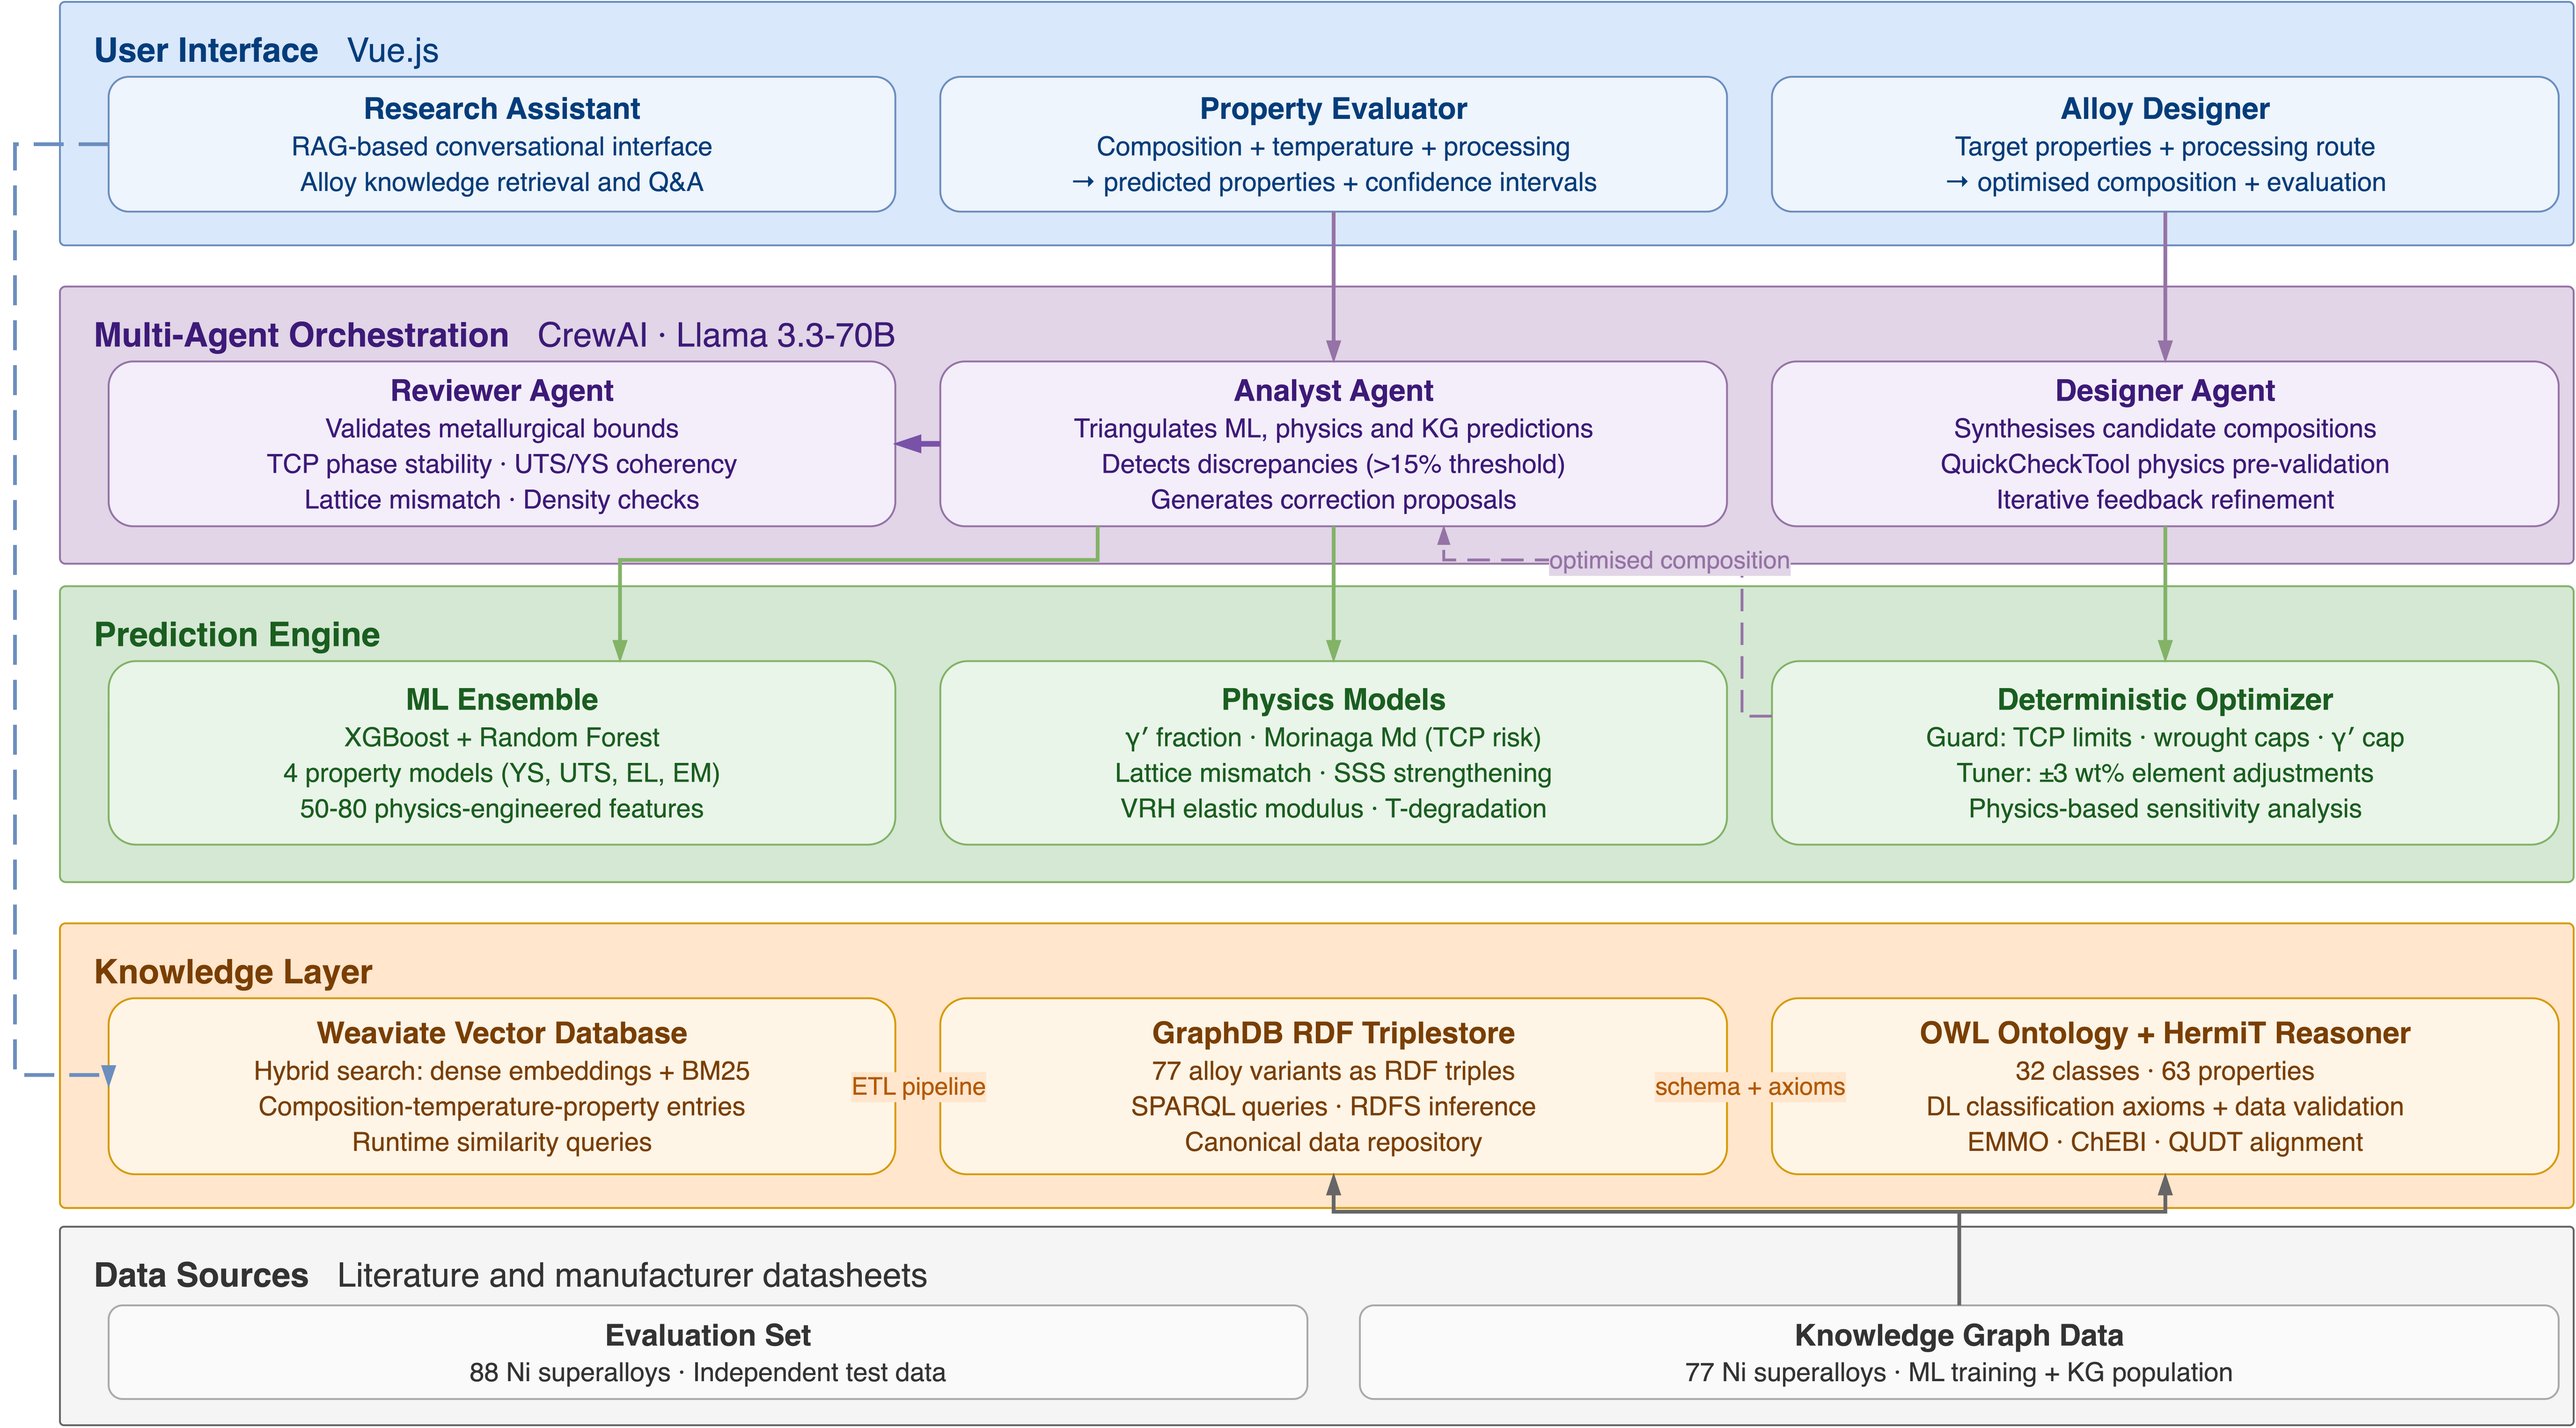
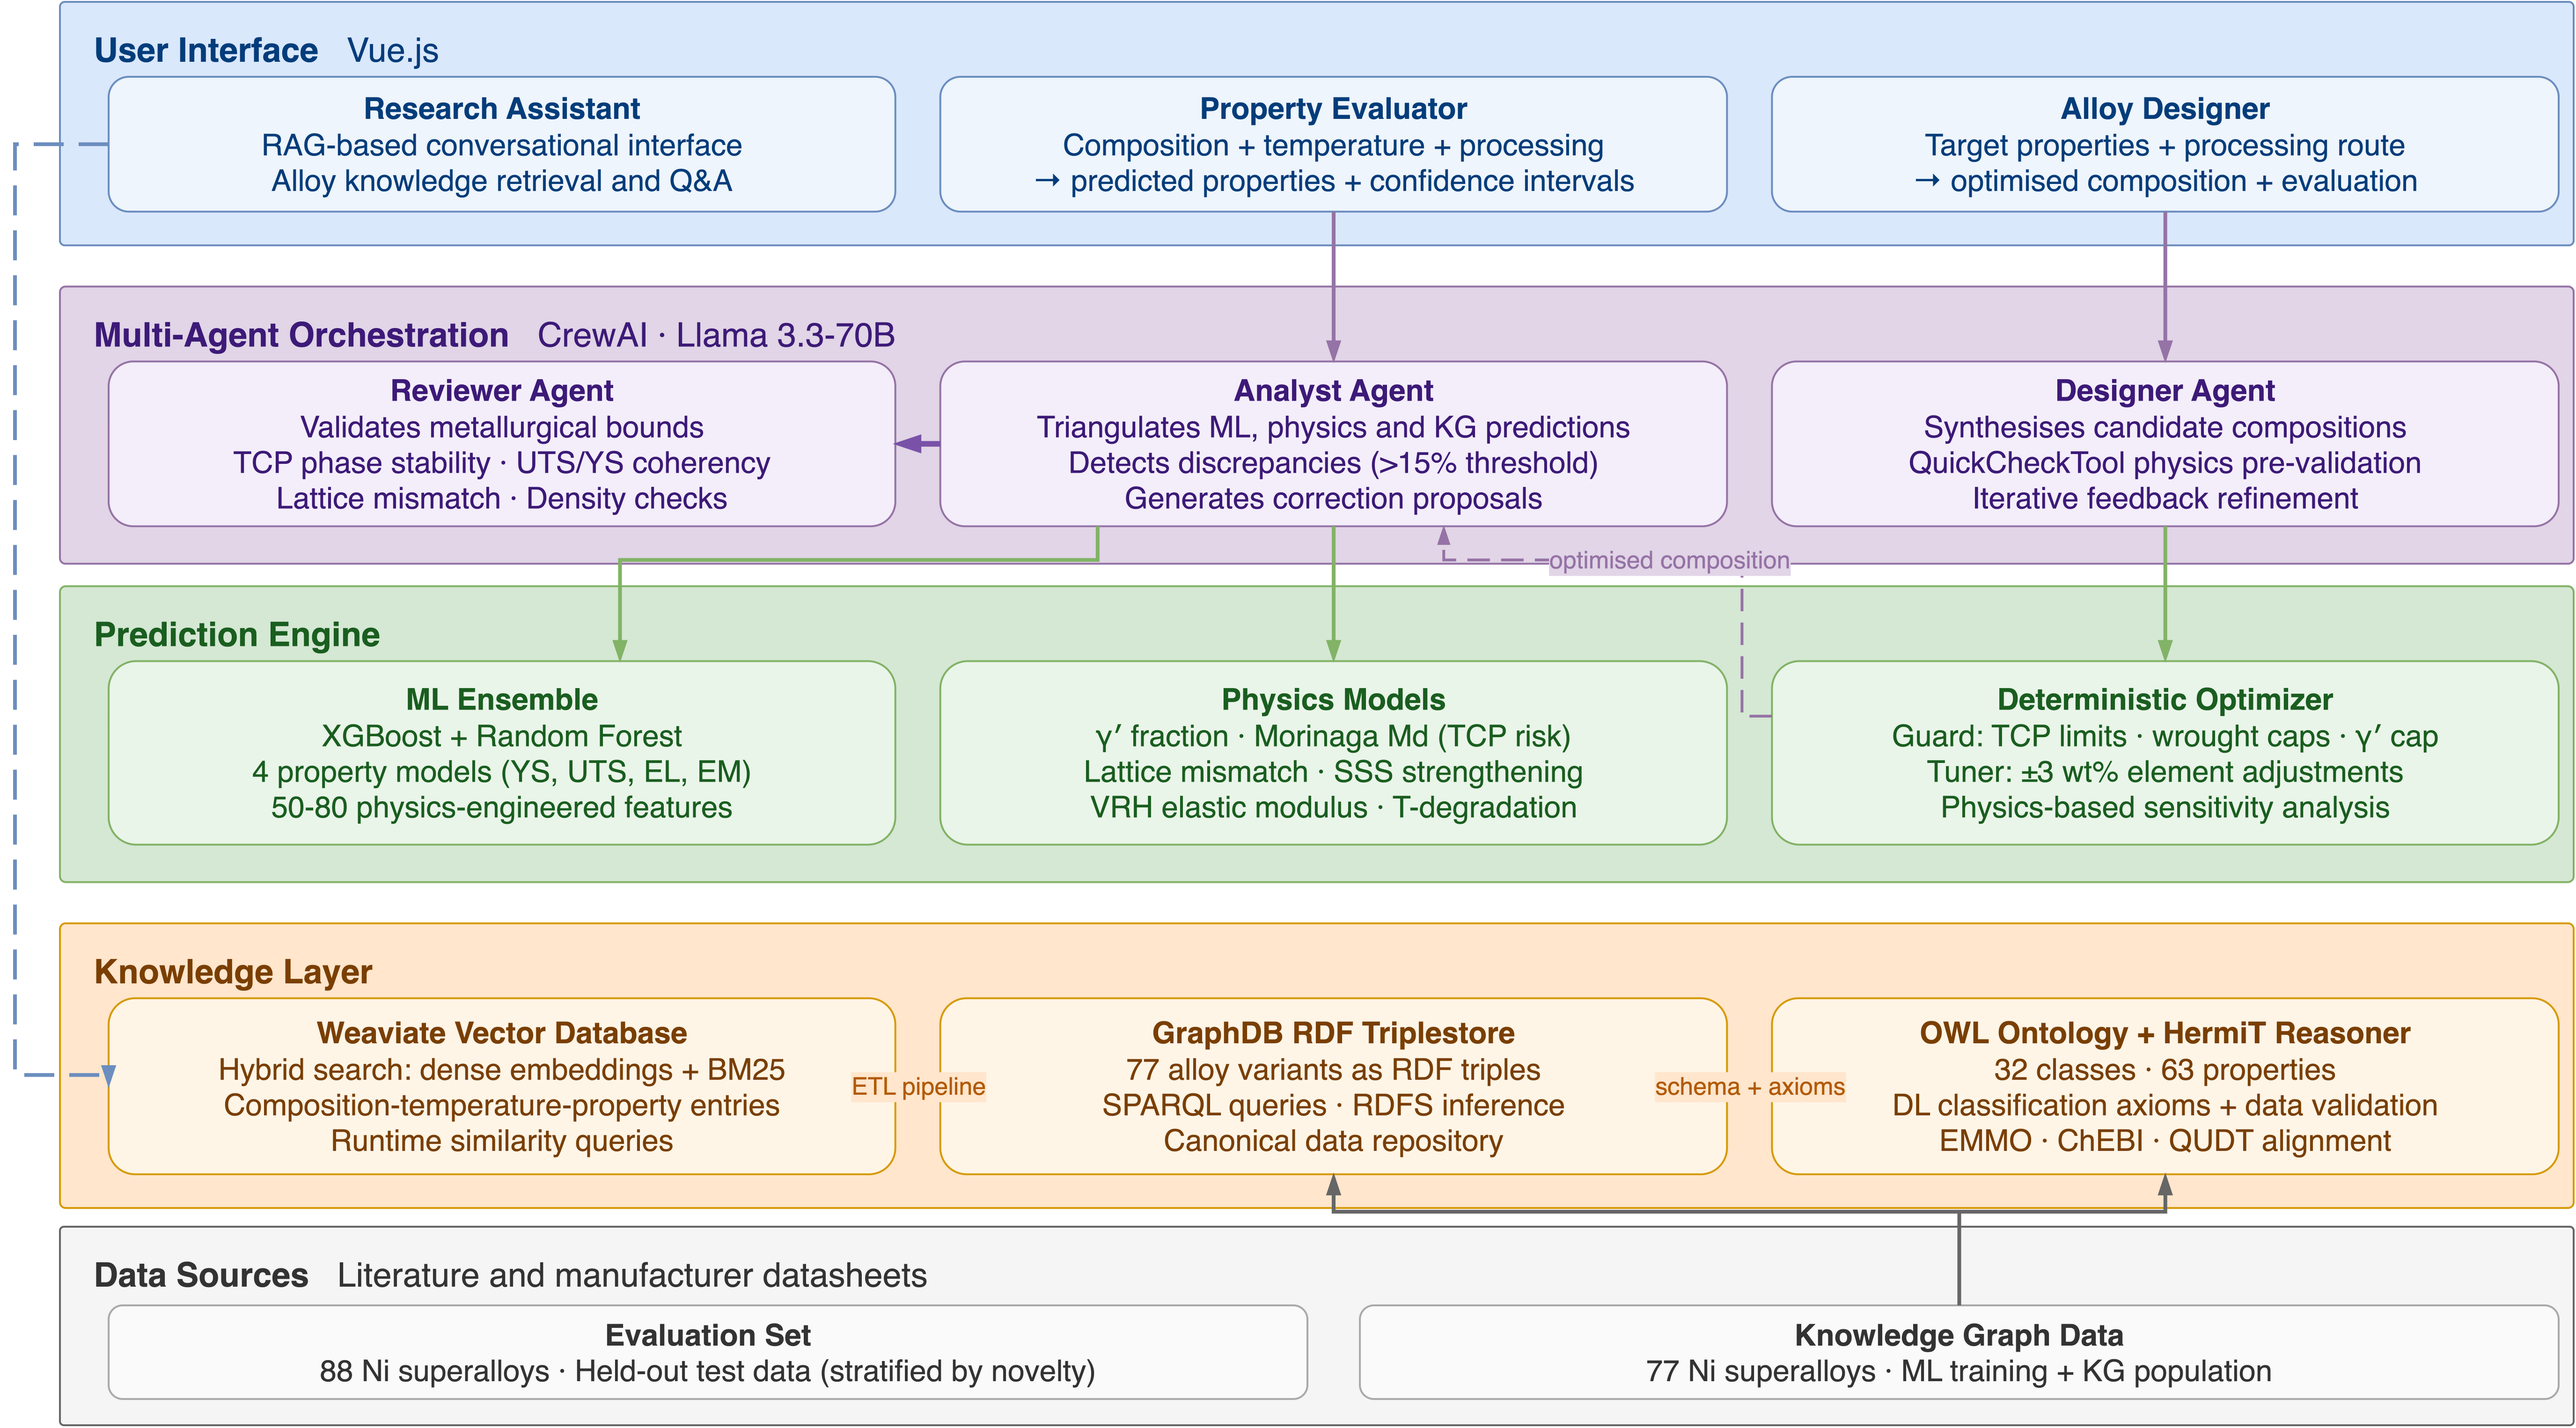
paper: figure 1 says "held-out", not "independent"; detail type 14 -> 16 px
"88 Ni superalloys · Independent test data" contradicted the paper's own central
finding. Thirteen of those 88 are vendor-renamed near-duplicates of training
alloys, which is precisely why the evaluation is stratified by nearest-neighbour
distance; calling the set independent asserts what Section 3.1 spends its length
disproving. Now reads "88 Ni superalloys · Held-out test data (stratified by
novelty)".

Detail text inside the inner boxes went 14 px -> 16 px on all 14 labels. It
fits: the cropped export is 5500x3049 before and after, and --crop sizes the
canvas to the content bounding box, so an overflow would have grown it.
pdftotext confirms every long label still occupies one line -- no rewrapping of
"→ predicted properties + confidence intervals",
"Composition-temperature-property entries",
"DL classification axioms + data validation" or "TCP phase stability · UTS/YS
coherency". Box titles (16 px) and edge labels (13 px) are untouched; the edge
labels are the remaining small type but they carry no load-bearing content.

Re-exported with the drawio CLI. PDF is vector, 0 raster XObjects, fonts
embedded as subsets.

The manifest's re-export procedure was out of date and is corrected: the
manuscript now compiles images/system_architecture.pdf, not the PNG, so a
re-export must refresh the PDF in paper_src. The PNG survives only for the
README. Four files move together, and the note now says so.

Claude-Session: https://claude.ai/code/session_011SMxCjaijtEYDX2A4o2sQe

diff --git a/evaluation/paper_assets/MANIFEST_TEMPLATE.md b/evaluation/paper_assets/MANIFEST_TEMPLATE.md
@@ -56,6 +56,14 @@ Both sources were checked label-for-label against the rendered figure and are
 current. The alloy counts are the quick tell: the source and the paper figure
 both read "88 Ni superalloys", and any export reading **99** is stale.
 
+Figure 1 was revised again in the same way: the Data Sources box now reads
+"88 Ni superalloys · Held-out test data (stratified by novelty)". The previous
+wording, "Independent test data", contradicted the paper's own central finding --
+13 of those 88 are vendor-renamed near-duplicates of training alloys, which is
+the reason the evaluation is stratified at all. The detail text inside the
+inner boxes also went from 14 px to 16 px; the cropped export is 5500x3049
+before and after, so nothing overflowed.
+
 Figure 1 carries three corrections made in `a076a77`, so an export predating it
 is stale in three more places: the triplestore holds **77** alloy variants and
 not 106, the orchestration band names no vendor (the provider chain is
@@ -123,13 +131,20 @@ drawio --export --format pdf --crop --transparent \
   --output docs/paper/figures/system_architecture.pdf "$SRC"
 drawio --export --format png --crop --width 5500 \
   --output docs/paper/figures/system_architecture.png "$SRC"
+cp docs/paper/figures/system_architecture.pdf paper_src/Alloygraph_kbs/images/
 cp docs/paper/figures/system_architecture.png assets/system_architecture.png
-cp docs/paper/figures/system_architecture.png paper_src/Alloygraph_kbs/images/
 ```
 
-Three copies of the PNG have to move together -- the tracked one, the README's,
-and the manuscript build input -- which is exactly how the "99 Ni superalloys"
-export went stale. The PDF has no such copies.
+**The manuscript now compiles the PDF, not the PNG** -- `paper_src/images/`
+holds only `system_architecture.pdf`, so that is the copy a re-export must
+refresh. The PNG survives for one reader: the README. Four files move together
+(source, tracked PDF, manuscript PDF, README PNG), and missing one is exactly
+how the "99 Ni superalloys" export went stale.
+
+`--crop` sizes the canvas to the content bounding box, which makes it a free
+overflow test: if a font change pushes text outside its box, the exported
+dimensions grow. Compare them across a re-export before trusting a type
+change.
 
 `system_architecture.pdf` is the vector version and is tracked: KBS R2.1 asks
 for vector artwork, so it, not the PNG, is what should go to the publisher. It
